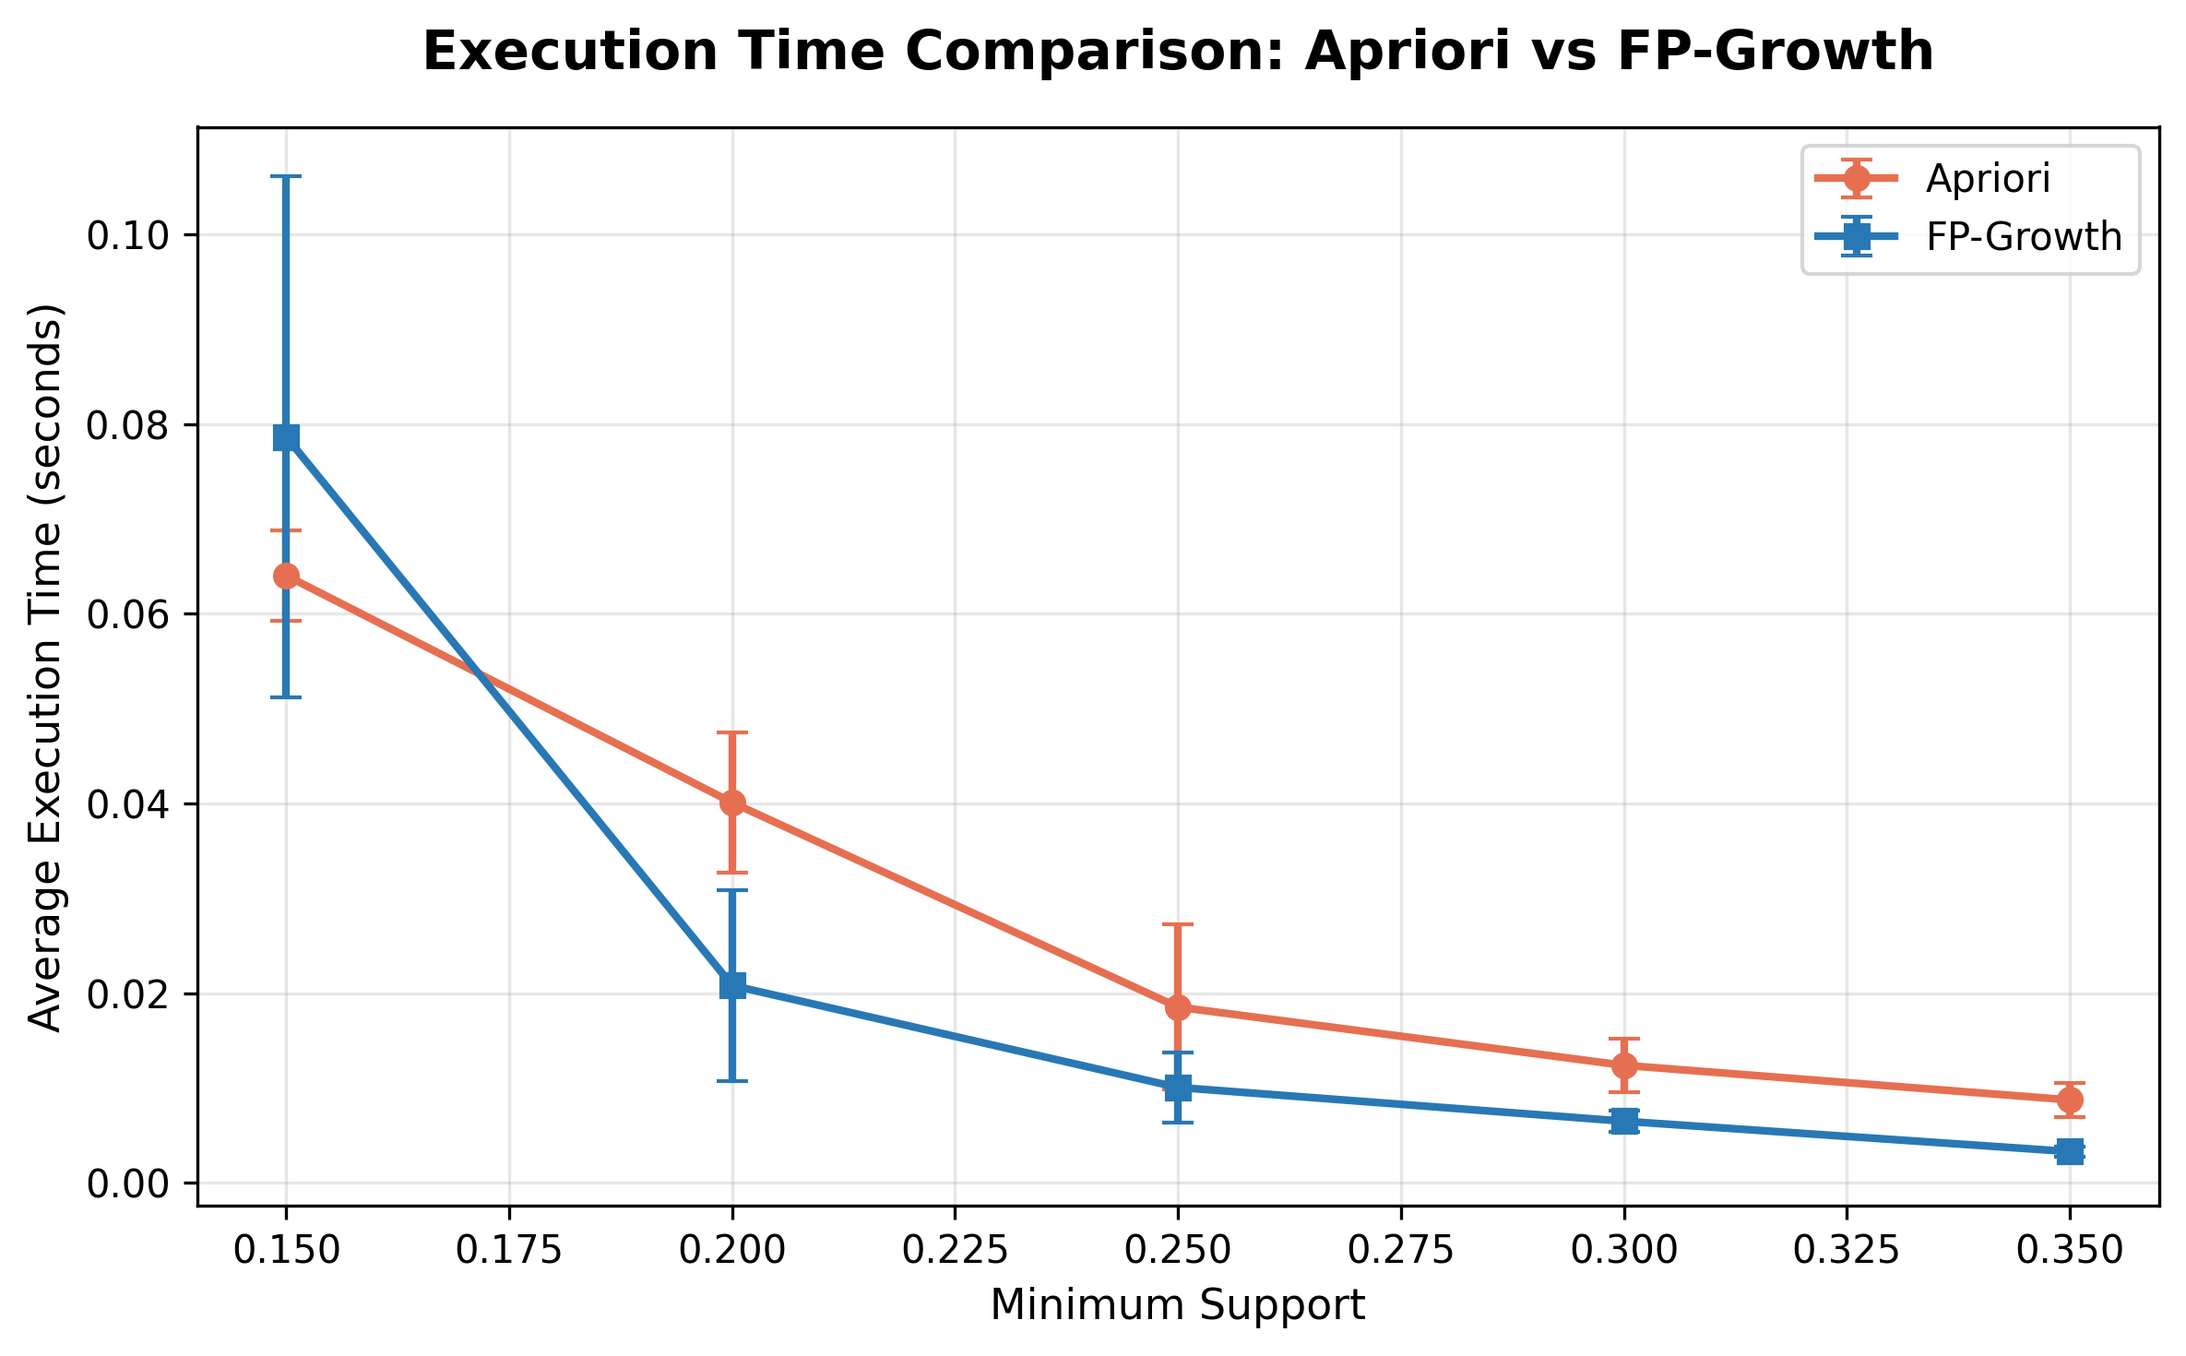
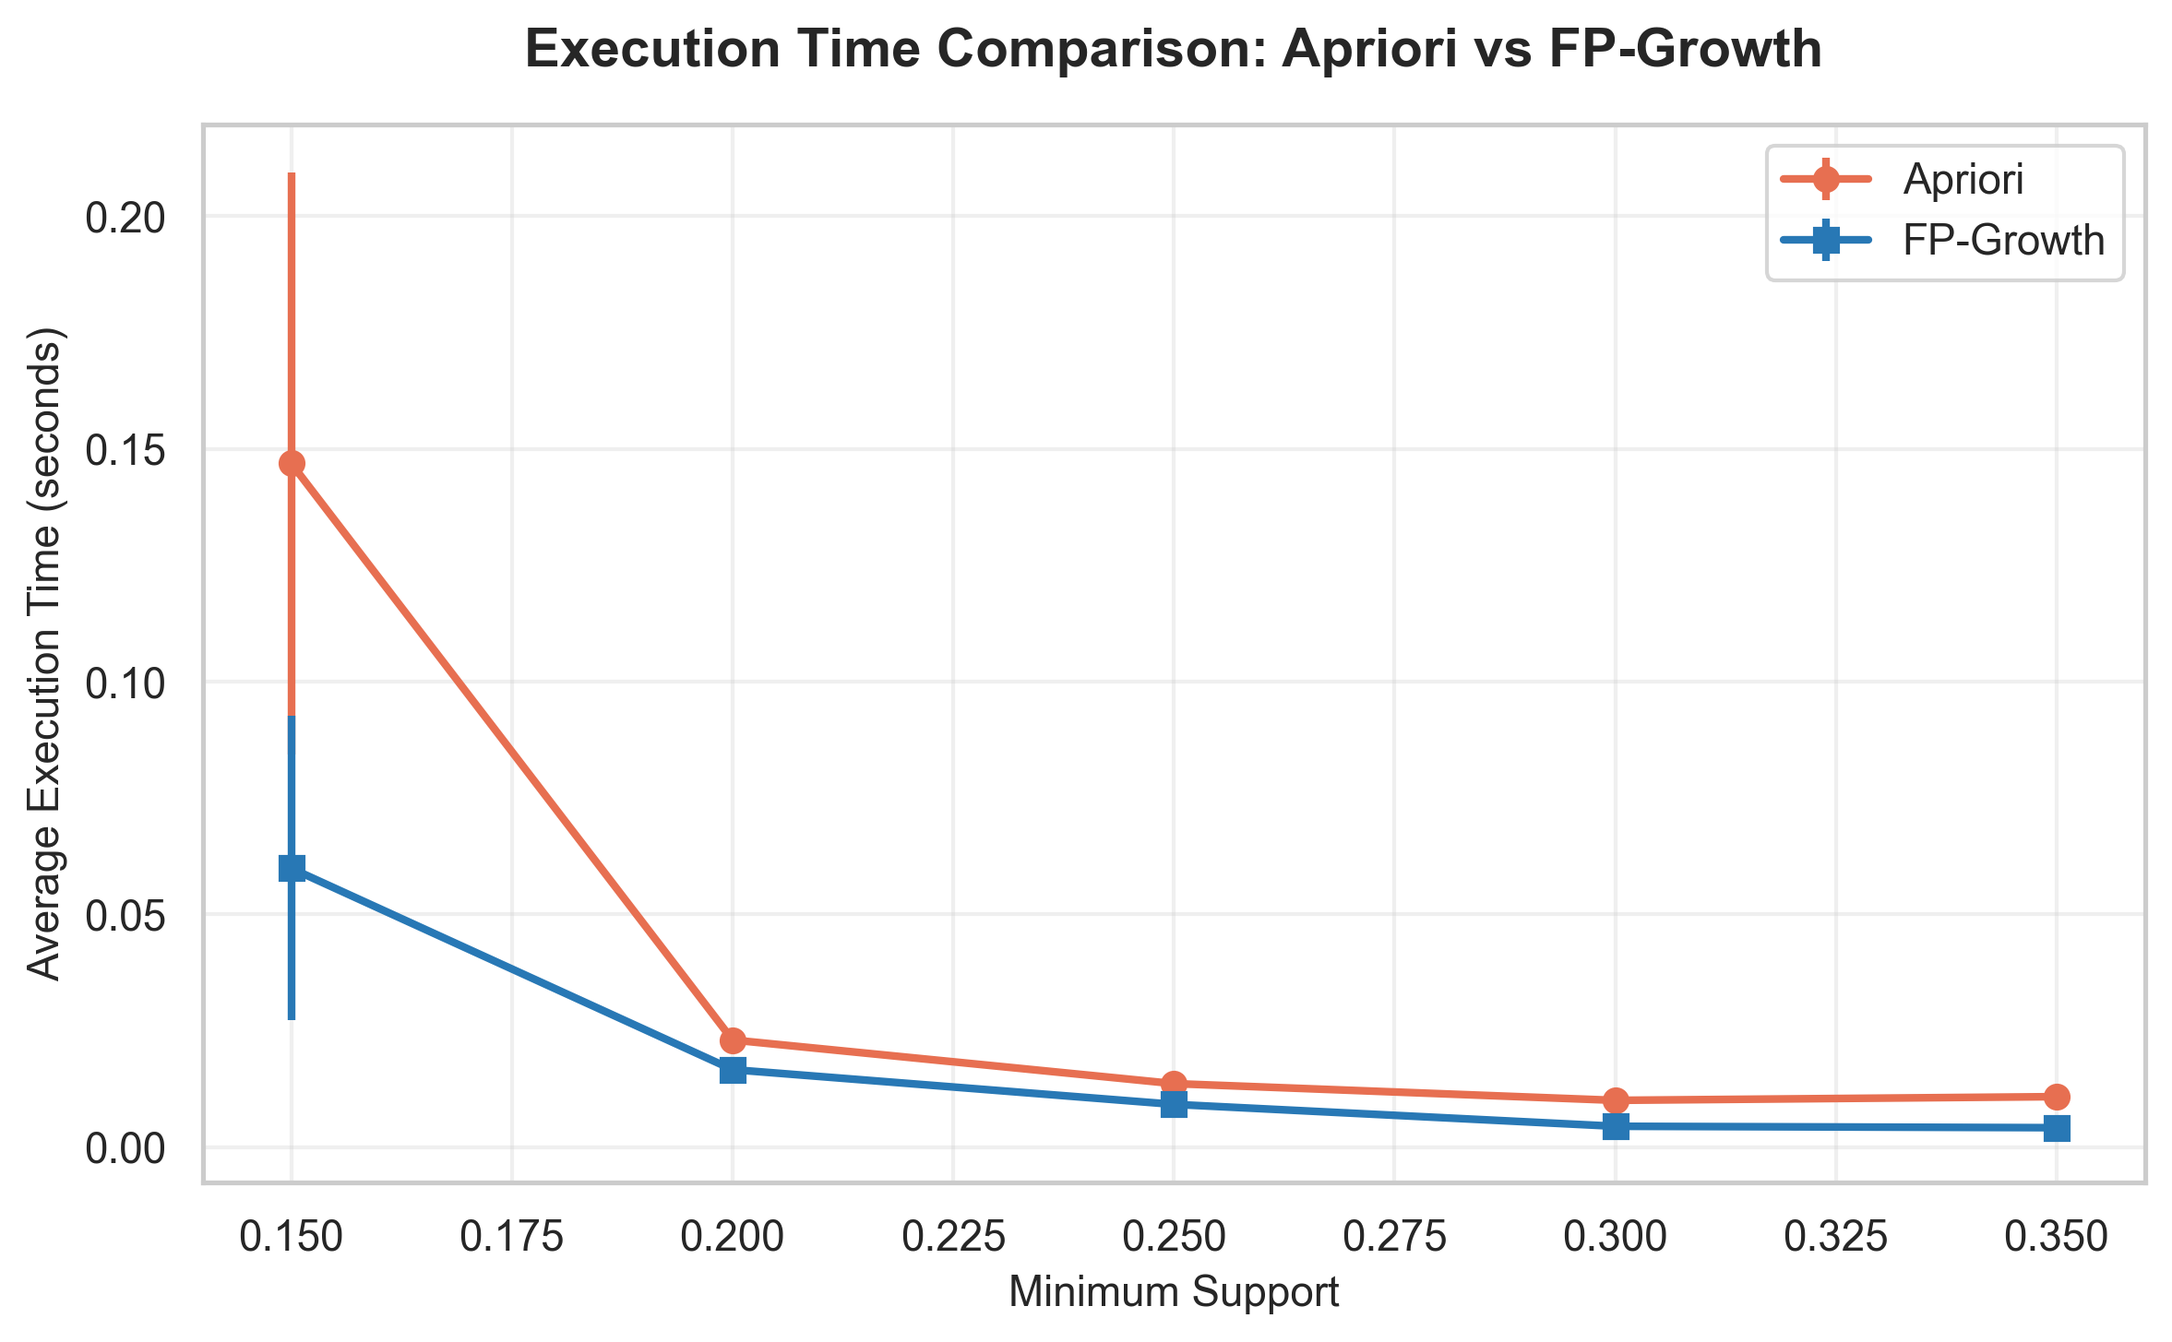
updated visualization and added figures

diff --git a/src/visualization.py b/src/visualization.py
@@ -3,18 +3,23 @@ import numpy as np
 import pandas as pd
 import seaborn as sns
 import networkx as nx
+
 from pathlib import Path
+from matplotlib.lines import Line2D
+
 
 COLORS = {
     "apriori": "#E76F51",
     "fp_growth": "#2878B5",
     "apriori_filtered": "#F4A261",
     "fp_growth_filtered": "#56A3A6",
+    "shared": "#8E44AD"
 }
 
 PLOT_STYLE = "whitegrid"
 OUTPUT_DIR = Path("results") / "figures"
 
+# DATA PREPARATION
 def prepare_execution_time_data(results):
     execution_time_data = [
         {"min_support": result ["min_support"],
@@ -50,27 +55,66 @@ def prepare_rule_data(results):
     return rule_data
 
 def prepare_rule_metrics_data(results):
-    rule_metrics_data = []
-
-    for result in results:
-        for algorithm in ["apriori", "fp_growth"]:
-            filtered_rules = result.get(f"{algorithm}_filtered_rules", [])
-
-            for rule in filtered_rules:
-                rule_metrics_data.append({
-                    "min_support": result["min_support"],
-                    "algorithm": algorithm,
-                    "antecedent": rule["antecedent"],
-                    "consequent": rule["consequent"],
-                    "support": rule["support"],
-                    "confidence": rule["confidence"],
-                    "lift": rule["lift"]
-                })
+    rule_metrics_data = [
+        {"min_support": result["min_support"],
+            "algorithm": algorithm,
+            "antecedent": rule["antecedent"],
+            "consequent": rule["consequent"],
+            "support": rule["support"],
+            "confidence": rule["confidence"],
+            "lift": rule["lift"]}
+        for result in results
+        for algorithm in ["apriori", "fp_growth"]
+        for rule in result[f"{algorithm}_filtered_rules"]
+    ]
 
     return rule_metrics_data
 
 
+#FORMATTING AND DUPLICATE HANDLING
+
+def get_itemset_values(items):
+    if isinstance(items, str):
+        return [items]
+
+    return list(items)
+
+
+def format_technique(technique_id, technique_names=None):
+    if technique_names is None:
+        return str(technique_id)
+
+    technique_name = technique_names.get(str(technique_id), str(technique_id))
+    return f"{technique_name} ({technique_id})"
+
+
+def format_itemset(items, technique_names=None):
+    techniques = get_itemset_values(items)
+    formatted_techniques = [format_technique(technique, technique_names) for technique in techniques]
+    return ", ".join(sorted(formatted_techniques))
+
+
+def format_rule(antecedent, consequent, technique_names=None):
+    antecedent_label = format_itemset(antecedent, technique_names)
+    consequent_label = format_itemset(consequent, technique_names)
+    return f"{antecedent_label} → {consequent_label}"
+
+def remove_duplicate_rules(data):
+    df = pd.DataFrame(data).copy()
+
+    if df.empty:
+        return df
+
+    df["antecedent_key"] = df["antecedent"].apply(lambda items: tuple(sorted(get_itemset_values(items))))
+    df["consequent_key"] = df["consequent"].apply(lambda items: tuple(sorted(get_itemset_values(items))))
+
+    return df.drop_duplicates(subset=["min_support", "antecedent_key", "consequent_key"])
+
+
+# PLOT SETTINGS
+
 def configure_plot(title, xlabel, ylabel, figsize=(8, 5)):
+    sns.set_theme(style=PLOT_STYLE)
     fig, ax = plt.subplots(figsize=figsize)
 
     ax.set_title(title, fontsize=14, fontweight="bold", pad=15)
@@ -103,10 +147,10 @@ def plot_execution_time(data):
     df = pd.DataFrame(data)
 
     fig, ax = configure_plot("Execution Time Comparison: Apriori vs FP-Growth", "Minimum Support", "Average Execution Time (seconds)")
-    ax.errorbar(df["min_support"], df["apriori_avg_time"], yerr=df["apriori_std"], label="Apriori", color=COLORS["apriori"], marker='o', linewidth=2, capsize=4)
-    ax.errorbar(df["min_support"], df["fp_growth_avg_time"], yerr=df["fp_growth_std"], label="FP-Growth", color=COLORS["fp_growth"], marker='s', linewidth=2, capsize=4)
+    ax.errorbar(df["min_support"], df["apriori_avg_time"], yerr=df["apriori_std"], label="Apriori", color=COLORS["apriori"], marker='o', linewidth=2)
+    ax.errorbar(df["min_support"], df["fp_growth_avg_time"], yerr=df["fp_growth_std"], label="FP-Growth", color=COLORS["fp_growth"], marker='s', linewidth=2)
 
-    plt.legend()
+    ax.legend()
     finish_plot(fig, "execution_time.png")
 
     
@@ -117,11 +161,16 @@ def plot_frequent_itemsets(data):
     df = pd.DataFrame(data)
     
     fig, ax = configure_plot("Frequent Itemsets Comparison", "Minimum Support", "Number of Frequent Itemsets")
+    apriori_values = df["apriori_frequent_itemsets"].to_numpy()
+    fp_growth_values = df["fp_growth_frequent_itemsets"].to_numpy()
 
-    ax.plot(df["min_support"], df["apriori_frequent_itemsets"], label="Apriori", color=COLORS["apriori"], marker='o', linewidth=2)
-    plt.plot(df["min_support"], df["fp_growth_frequent_itemsets"], label="FP-Growth", color=COLORS["fp_growth"], marker='s', linewidth=2)
+    if np.array_equal(apriori_values, fp_growth_values):
+        ax.plot(df["min_support"], apriori_values, label="Shared Result", color=COLORS["shared"], marker='o', linewidth=2.5)
+    else:
+        ax.plot(df["min_support"], apriori_values, label="Apriori", color=COLORS["apriori"], marker='o', linewidth=2)
+        ax.plot(df["min_support"], fp_growth_values, label="FP-Growth", color=COLORS["fp_growth"], marker='s', linewidth=2)
 
-    plt.legend()
+    ax.legend()
     finish_plot(fig, "frequent_itemsets.png")
 
 
@@ -155,87 +204,125 @@ def plot_confidence_vs_lift(data):
     if not data:
         print("No association rule metrics available.")
         return
-    df = pd.DataFrame(data)
+
+    df = remove_duplicate_rules(data)
 
     fig, ax = configure_plot("Confidence vs Lift of Association Rules", "Confidence", "Lift")
-    sns.scatterplot(data=df, x="confidence", y="lift", hue="algorithm", style="algorithm", size="support", sizes=(30, 200), 
-        palette={
-            "apriori": COLORS["apriori"],
-            "fp_growth": COLORS["fp_growth"]
-        }, alpha=0.75, ax=ax)
+    sns.scatterplot(data=df, x="confidence", y="lift", size="support", sizes=(30, 200), color=COLORS["shared"], alpha=0.75, legend="brief", ax=ax)
     ax.axhline(y=1, color="black", linestyle="--", label="Lift = 1")
 
     ax.legend()
     finish_plot(fig, "confidence_vs_lift.png")
 
-def plot_technique_network(data):
-    # import networkx as nx
+
+def plot_top_association_rules(data, technique_names=None):
+    if not data:
+        print("No association rules available.")
+        return
+
+    df = remove_duplicate_rules(data)
+
+    # Construct readable rule labels.
+    df["rule_label"] = df.apply(lambda row: format_rule(row["antecedent"], row["consequent"], technique_names),axis=1)
+
+    # Remove repeated occurrences of the same rule and retian those with highest lift
+    df = (df.sort_values("lift", ascending=False)
+            .drop_duplicates(subset="rule_label")
+            .nlargest(10, "lift")
+            .sort_values("lift"))
+
+    if df.empty:
+        return
+
+    fig, ax = plt.subplots(figsize=(12, 5))
+    plt.subplots_adjust(left=0.50, right=0.98)
+    bars = ax.barh(df["rule_label"], df["confidence"], color=COLORS["shared"], alpha=0.9)
+
+    # Display all three association metrics.
+    for bar, (_, rule) in zip(bars, df.iterrows()):
+        ax.text(bar.get_width() + 0.01, bar.get_y() + bar.get_height() / 2,
+            (f"Lift: {rule['lift']:.2f} | Support: {rule['support']:.3f}"), va="center",fontsize=8)
+
+    ax.set_title("Top Association Rules", fontsize=14, fontweight="bold", pad=15)
+    ax.set_xlabel("Confidence")
+    ax.set_ylabel("Association Rule")
+    ax.set_xlim(0,min(1.0, max(0.1, df["confidence"].max() * 1.65)))
+    ax.tick_params(axis="y", labelsize=7)
+
+    ax.grid(axis="x", alpha=0.3)
+    ax.set_axisbelow(True)
+    ax.legend(handles=[Line2D([0], [0], color=COLORS["shared"], lw=6, label="Shared Results")],loc="lower right")
+
+    finish_plot(fig, "top_association_rules.png")
+
+
+def plot_technique_network(data, technique_names):
     if not data:
         print("No technique association data available.")
         return
-    df = pd.DataFrame(data)
-    G = nx.DiGraph()
+    df = remove_duplicate_rules(data)
 
-    for rule in data:
-        antecedents = rule["antecedent"]
-        consequents = rule["consequent"]
-        lift = rule["lift"]
+    # Keep only rules with one technique on each side.
+    df = df[df["antecedent"].apply(lambda items: len(get_itemset_values(items)) == 1)
+        & df["consequent"].apply(lambda items: len(get_itemset_values(items)) == 1)
+    ].copy()
 
-        if isinstance(antecedents, str):
-            antecedents = [antecedents]
-
-        if isinstance(consequents, str):
-            consequents = [consequents]
-
-        for antecent_tech in antecedents:
-            for consequent_tech in consequents:
-
-                if antecent_tech == consequent_tech:
-                    continue
-
-                if G.has_edge(antecent_tech, consequent_tech):
-                    edge = G[antecent_tech][consequent_tech]
-
-                    edge["total_lift"] += lift
-                    edge["rule_count"] += 1
-
-                    edge["weight"] = (edge["total_lift"] / edge["rule_count"])
-
-                else:
-                    G.add_edge(antecent_tech, consequent_tech, weight=lift, total_lift=lift, rule_count=1)
-
-    if G.number_of_nodes() == 0:
-        print("No techniques available.")
+    if df.empty:
+        print("No one-to-one technique associations available.")
         return
 
-    fig, ax = plt.subplots(figsize=(10, 7))
+    df["source"] = df["antecedent"].apply(lambda items: get_itemset_values(items)[0])
+    df["target"] = df["consequent"].apply(lambda items: get_itemset_values(items)[0])
+    df = df[df["source"] != df["target"]]
+
+    # Keep the strongest association for each directed connection.
+    df = (
+        df.sort_values("lift", ascending=False)
+        .drop_duplicates(subset=["source", "target"])
+        .nlargest(15, "lift")
+    )
+
+    if df.empty:
+        print("No valid technique associations available.")
+        return
+
+    G = nx.DiGraph()
+
+    for _, rule in df.iterrows():
+        G.add_edge(rule["source"], rule["target"], lift=rule["lift"])
+
+    fig, ax = plt.subplots(figsize=(12, 8))
 
     # Calculate node positions.
     node_count = G.number_of_nodes()
-    pos = nx.spring_layout(G, seed=42, iterations=150, k=2.5 / np.sqrt(node_count), scale=2.5)
+    pos = nx.spring_layout(G, seed=42, iterations=150, k=0.8 / np.sqrt(node_count), scale=1.5)
 
     # Node sizes reflect the number of connections.
     node_sizes = [700 + G.degree(node) * 180 for node in G.nodes()]
 
     # Edge widths reflect average lift.
-    edge_widths = [max(0.8, min(3, G[u][v]["weight"])) for u, v in G.edges()]
+    edge_widths = [max(1.0, min(4.0, G[u][v]["lift"])) for u, v in G.edges()]
 
-    nx.draw_networkx_nodes(G, pos, node_size=node_sizes, node_color="#87CEEB", edgecolors="#2878B5", linewidths=1.2, alpha=0.9, ax=ax)
-    nx.draw_networkx_edges(G, pos, width=edge_widths, edge_color="gray", alpha=0.4, arrows=True, arrowsize=14, connectionstyle="arc3,rad=0.08", min_source_margin=12, min_target_margin=12, ax=ax)
-    nx.draw_networkx_labels(G, pos, font_size=8, font_weight="bold", ax=ax)
+    nx.draw_networkx_nodes(G, pos, node_size=node_sizes, node_color="#87CEEB", edgecolors=COLORS["fp_growth"], linewidths=1.2, alpha=0.9, ax=ax)
+    nx.draw_networkx_edges(G, pos, width=edge_widths, edge_color=COLORS["shared"], alpha=0.75, arrows=True, arrowsize=16, connectionstyle="arc3,rad=0.08", min_source_margin=12, min_target_margin=12, ax=ax)
+    
+    node_labels = {node: format_technique(node, technique_names) for node in G.nodes()}
+    nx.draw_networkx_labels(G, pos, labels=node_labels, font_size=8, font_weight="bold", ax=ax)
 
-    # Display edge labels only for reasonably sized networks
-    if G.number_of_edges() <= 25:
-        edge_labels = {(u, v): f"{G[u][v]['weight']:.2f}" for u, v in G.edges()}
-        nx.draw_networkx_edge_labels(G, pos, edge_labels=edge_labels, font_size=7, font_color="darkred", ax=ax)
+    edge_labels = {(u, v): f"{G[u][v]['lift']:.2f}" for u, v in G.edges()}
+    nx.draw_networkx_edge_labels(G, pos, edge_labels=edge_labels, font_size=7, font_color="darkred", ax=ax)
+
+    legend_handles = [Line2D([0], [0], color=COLORS["shared"],lw=2, label="Shared Association")]
+    ax.legend(handles=legend_handles, loc="upper right")
 
     ax.set_title("MITRE ATT&CK Technique Association Network", fontsize=12, fontweight="bold", pad=12)
+    ax.text(0.5, -0.04, "Arrow = Association Direction | " "Edge Width = Lift | " "Node Size = Connectivity",transform=ax.transAxes,ha="center",fontsize=9)
     ax.axis("off")
     finish_plot(fig, "technique_network.png")
 
 
 
-def visualize_results(results): 
+def visualize_results(results, technique_names=None): 
     execution_time_data = prepare_execution_time_data(results)
     itemset_data = prepare_itemset_data(results)
     rule_data = prepare_rule_data(results)
@@ -245,5 +332,6 @@ def visualize_results(results):
     plot_frequent_itemsets(itemset_data)
     plot_association_rules(rule_data)
     plot_confidence_vs_lift(rule_metrics_data)
-    plot_technique_network(rule_metrics_data)
+    plot_top_association_rules(rule_metrics_data, technique_names)
+    plot_technique_network(rule_metrics_data, technique_names)
 

diff --git a/src/data_preprocessing.py b/src/data_preprocessing.py
@@ -59,6 +59,7 @@ def extract_group_technique_relationships(intrusion_sets, attack_patterns, relat
 # Create ARM Transactions
 def create_transactions(intrusion_sets, attack_patterns, group_technique_relationships):
     transactions = []
+    technique_names = {}
 
     # Each key is an intrusion set ID and the values as the techniques used 
     group_techniques = {
@@ -77,12 +78,18 @@ def create_transactions(intrusion_sets, attack_patterns, group_technique_relatio
         if not attack_pattern:
             continue
 
+        # Extract technique name
+        technique_name = attack_pattern.get("name")
+
         for ref in attack_pattern.get("external_references", []):
             if ref.get("source_name") == "mitre-attack" and ref.get("external_id"):
                 technique_external_id = ref.get("external_id")
 
                 # Associate the technique with its group
                 group_techniques[group_id].add(technique_external_id)
+
+                # Map the technique ID to its name
+                technique_names[technique_external_id] = technique_name
                 break # No need to keep searching for further references
 
     for group_id, techniques in group_techniques.items():
@@ -95,7 +102,7 @@ def create_transactions(intrusion_sets, attack_patterns, group_technique_relatio
                 "group_name": group_name,
                 "techniques": sorted(techniques)
             })
-    return transactions
+    return transactions, technique_names
 
 # 4. Display preprocessing results
 def display_preprocessing_results(intrusion_sets, attack_patterns, group_technique_relationships, transactions):
@@ -148,10 +155,10 @@ def display_preprocessing_results(intrusion_sets, attack_patterns, group_techniq
 def preprocess_dataset(raw_data):
     intrusion_sets, attack_patterns, relationships = extract_relevant_objects(raw_data)
     group_technique_relationships = extract_group_technique_relationships(intrusion_sets,attack_patterns,relationships)
-    transactions = create_transactions(intrusion_sets,attack_patterns,group_technique_relationships)
+    transactions, technique_names = create_transactions(intrusion_sets,attack_patterns,group_technique_relationships)
     display_preprocessing_results(intrusion_sets, attack_patterns, group_technique_relationships, transactions)
     
-    return transactions
+    return transactions, technique_names
 
 # 6. Extract only the ATT&CK Techniques from each transaction
 def extract_techniques(transactions):

diff --git a/main.py b/main.py
@@ -13,7 +13,7 @@ def main():
 
     # 3. Preprocess dataset
     print("\n3. Preprocessing dataset...")
-    transactions = data_preprocessing.preprocess_dataset(raw_data)
+    transactions, technique_names = data_preprocessing.preprocess_dataset(raw_data)
     print("Preprocessing completed!")
     print("Number of transactions:", len(transactions))
 
@@ -42,7 +42,7 @@ def main():
 
     #8. Generate Visualization
     print("\n8. Generating Visualization...")
-    visualization.visualize_results(results)    
+    visualization.visualize_results(results, technique_names)    
 
     print("\n========== Project executed successfully ==========")
 
